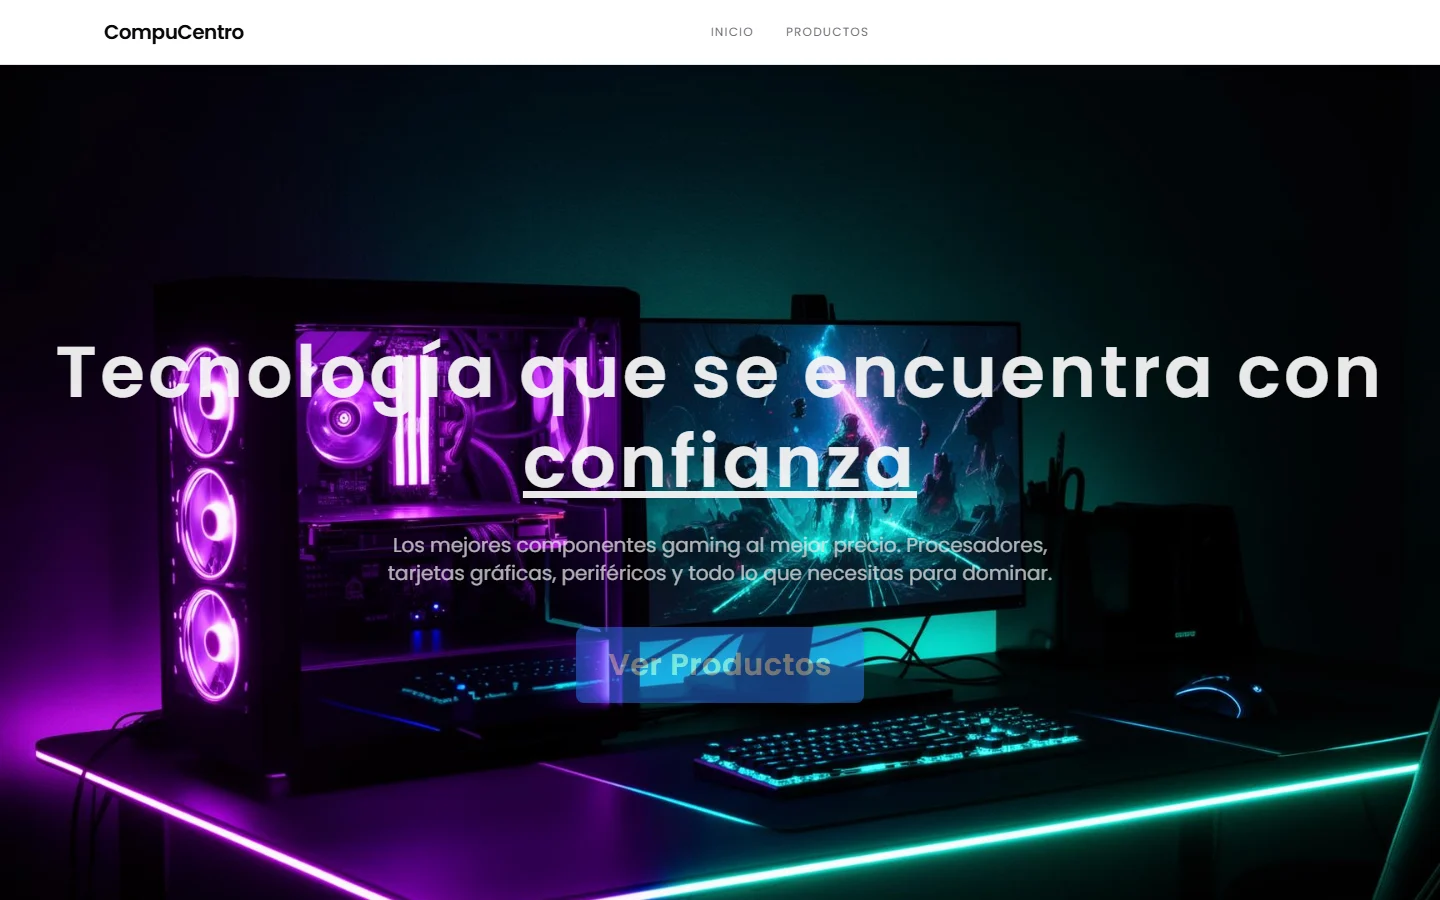
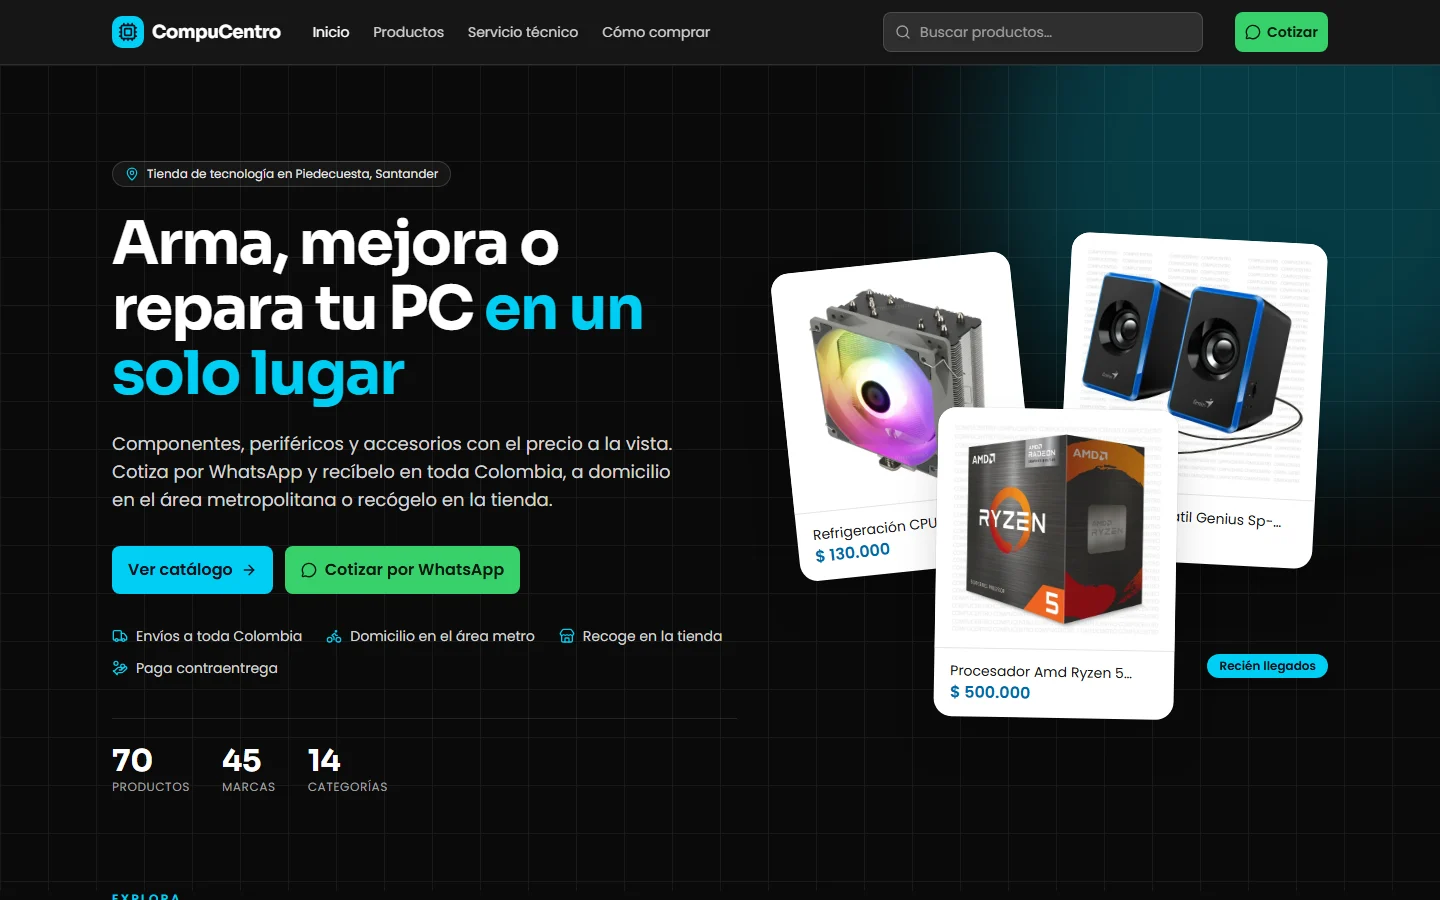
feat: update project details for CompuCentro and enhance stack information

diff --git a/src/data/projects.ts b/src/data/projects.ts
@@ -216,10 +216,10 @@ export const projects: Project[] = [
 		name: "CompuCentro",
 		kind: "local",
 		place: "Piedecuesta",
-		line: "Una tienda de componentes para armar o mejorar tu PC.",
+		line: "Tienda de tecnología y servicio técnico: arma, mejora o repara tu PC.",
 		story:
-			"Procesadores, tarjetas gráficas, RAM, discos. Un catálogo pensado para quien ya sabe lo que busca y quiere comparar rápido, con envíos a toda Colombia.",
-		stack: ["React", "Vite"],
+			"Un catálogo con el precio a la vista, que se recorre por categoría o por marca. Sin registros ni carrito: cada producto se cotiza por WhatsApp en un clic, y se recibe por envío a toda Colombia, a domicilio en el área metropolitana o recogiéndolo en la tienda, y se puede pagar contraentrega. También ofrece armado de PC a medida, mantenimiento y formateo. Por dentro corre con tailwindcss-atomic, mi propio plugin.",
+		stack: ["React", "Vite", "Tailwind", "tailwindcss-atomic"],
 		url: "https://compucentro.profiya.com",
 		shots: [compucentro],
 	},
@@ -230,7 +230,7 @@ export const projects: Project[] = [
 		year: 2026,
 		line: "CSS atómico para Tailwind, con el motor en Rust.",
 		story:
-			"Parte cada utilidad de Tailwind en una clase por declaración, le pone un hash corto y reescribe los className para que coincidan. El hashing corre en Rust compilado a WebAssembly. Funciona con Vite, Webpack, Rollup, Next.js y Astro.",
+			"Parte cada utilidad de Tailwind en una clase por declaración, le pone un hash corto y reescribe los className para que coincidan. El hashing corre en Rust compilado a WebAssembly. Funciona con Vite, Webpack, Rollup, Next.js y Astro, y ya corre en producción en CompuCentro.",
 		stack: ["Rust", "WebAssembly", "PostCSS", "TypeScript"],
 		url: "https://atomic.profiya.com/es",
 		links: [
